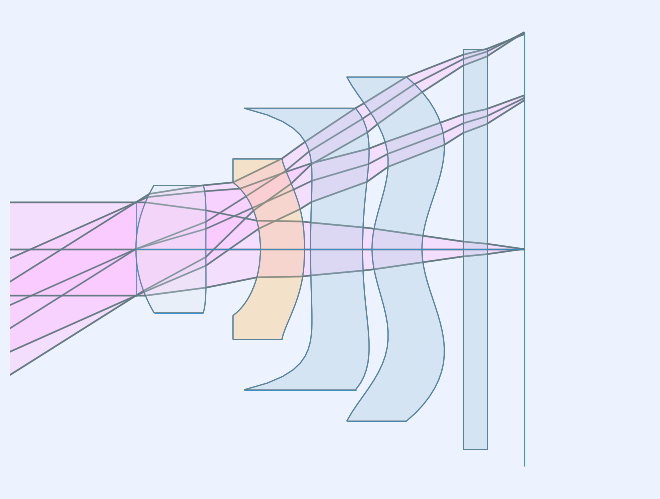
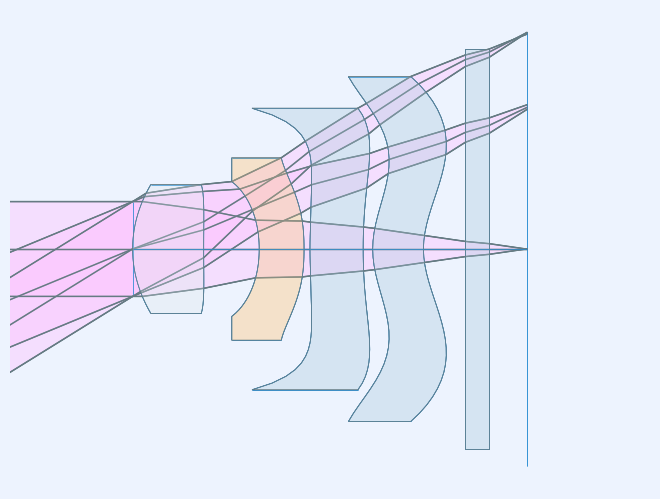
Update triplet and cell phone examples to latest version and practices.

diff --git a/docs/source/examples/Cell_Phone_lens/Cell_Phone_lens.rst b/docs/source/examples/Cell_Phone_lens/Cell_Phone_lens.rst
@@ -128,19 +128,19 @@ List the sequential model and the first order properties
 .. parsed-literal::
 
                   r            t        medium     mode   zdr      sd
-      Obj:     0.000000  1.00000e+10       air             1  6.3006e+09
+      Obj:     0.000000  1.00000e+10       air             1  6.1915e+09
      Stop:     0.000000      0.00000       air             1     0.79358
-        2:     1.962000      1.19000   471.766             1     0.93800
-        3:    33.398000     0.930000       air             1      1.0837
-        4:    -2.182000     0.750000   603.275             1      1.1338
-        5:    -6.367000     0.100000       air             1      1.5390
-        6:     5.694000     0.890000   510.562             1      1.8254
-        7:     9.192000     0.160000       air             1      2.3978
-        8:     1.674000     0.850000   510.562             1      2.4820
-        9:     1.509000     0.700000       air             1      2.9297
-       10:     0.000000     0.400000   516.641             1      3.3067
-       11:     0.000000     0.640000       air             1      3.4058
-      Img:     0.000000      0.00000                       1      3.6910
+        2:     1.962000      1.19000   471.766             1     0.93439
+        3:    33.398000     0.930000       air             1      1.0782
+        4:    -2.182000     0.750000   603.275             1      1.1289
+        5:    -6.367000     0.100000       air             1      1.5270
+        6:     5.694000     0.890000   510.562             1      1.8048
+        7:     9.192000     0.160000       air             1      2.3576
+        8:     1.674000     0.850000   510.562             1      2.4382
+        9:     1.509000     0.700000       air             1      2.8879
+       10:     0.000000     0.400000   516.641             1      3.2480
+       11:     0.000000     0.640000       air             1      3.3477
+      Img:     0.000000      0.00000                       1      3.6298
 
 
 .. code:: ipython3
@@ -162,18 +162,18 @@ List the sequential model and the first order properties
     m            -5.555e-10
     red            -1.8e+09
     obj_dist          1e+10
-    obj_ang           32.21
+    obj_ang           31.76
     enp_dist             -0
     enp_radius       0.7936
     na obj        7.936e-11
     n obj                 1
     img_dist         0.5678
-    img_ht              3.5
+    img_ht            3.439
     exp_dist         -3.602
     exp_radius       0.5854
-    na img          -0.1414
+    na img          -0.1429
     n img                 1
-    optical invariant          0.5
+    optical invariant       0.4913
 
 
 .. code:: ipython3
@@ -391,77 +391,77 @@ Set up the ray trace for the second field point
 Trace central, upper and lower rays
 -----------------------------------
 
-Use the :func:`~.raytr.trace.trace_base` function to trace a ray in terms of pupil position, field point and wavelength.
+Use the :func:`~.raytr.trace.trace_ray` function to trace a ray in terms of pupil position, field point and wavelength.
 
 .. code:: ipython3
 
-    ray_f1_r0 = trace_base(opm, [0., 0.], fld, wvl)
-    list_ray(ray_f1_r0[0])
+    ray_f1_r0 = trace_ray(opm, [0., 0.], fld, wvl)
+    list_ray(ray_f1_r0)
 
 
 .. parsed-literal::
 
                 X            Y            Z           L            M            N               Len
-      0:      0.00000 -4455119074.82455            0     0.000000     0.406953     0.913449   1.0948e+10
-      1:      0.00000      0.00000            0     0.000000     0.406953     0.913449   3.0134e-15
-      2:      0.00000      0.00000   2.6771e-15     0.000000     0.276650     0.960971       1.2397
-      3:      0.00000      0.34297     0.001336     0.000000     0.409866     0.912146      0.86869
-      4:      0.00000      0.69902     -0.13629     0.000000     0.407402     0.913249      0.76898
-      5:      0.00000      1.01230     -0.18402     0.000000     0.432712     0.901532      0.34554
-      6:      0.00000      1.16182     0.027492     0.000000     0.283196     0.959062       1.0047
-      7:      0.00000      1.44636      0.10111     0.000000     0.468716     0.883349      0.36927
-      8:      0.00000      1.61944       0.2673     0.000000     0.352162     0.935939       1.0087
-      9:      0.00000      1.97467       0.3614     0.000000     0.436135     0.899881      0.37628
-     10:      0.00000      2.13878            0     0.000000     0.287688     0.957724      0.41766
-     11:      0.00000      2.25894            0     0.000000     0.436135     0.899881      0.71121
-     12:      0.00000      2.56912            0     0.000000     0.436135     0.899881            0
+      0:      0.00000 -4133992479.29825            0     0.000000     0.382041     0.924145   1.0821e+10
+      1:      0.00000     -0.00000            0     0.000000     0.382041     0.924145   2.6785e-14
+      2:      0.00000     -0.00000   2.4226e-14     0.000000     0.259715     0.965685       1.2335
+      3:      0.00000      0.32037    0.0012037     0.000000     0.384968     0.922930      0.87739
+      4:      0.00000      0.65813     -0.11903     0.000000     0.381160     0.924509      0.76657
+      5:      0.00000      0.95032     -0.16032     0.000000     0.400332     0.916370      0.31265
+      6:      0.00000      1.07549     0.026181     0.000000     0.257929     0.966164       0.9887
+      7:      0.00000      1.33050     0.091422     0.000000     0.441538     0.897243       0.3836
+      8:      0.00000      1.49987      0.27561     0.000000     0.300087     0.953912       1.0019
+      9:      0.00000      1.80052      0.38131     0.000000     0.428907     0.903348      0.35279
+     10:      0.00000      1.95184            0     0.000000     0.282920     0.959143      0.41704
+     11:      0.00000      2.06983            0     0.000000     0.428907     0.903348      0.70848
+     12:      0.00000      2.37370            0     0.000000     0.428907     0.903348            0
 
 
 .. code:: ipython3
 
-    ray_f1_py = trace_base(opm, [0., 1.], fld, wvl)
-    list_ray(ray_f1_py[0])
+    ray_f1_py = trace_ray(opm, [0., 1.], fld, wvl)
+    list_ray(ray_f1_py)
 
 
 .. parsed-literal::
 
                 X            Y            Z           L            M            N               Len
-      0:      0.00000 -4455119074.82455            0     0.000000     0.406953     0.913449   1.0948e+10
-      1:      0.00000      0.79358            0     0.000000     0.406953     0.913449      0.22235
-      2:      0.00000      0.88407       0.2031     0.000000     0.101114     0.994875      0.97236
-      3:      0.00000      0.98239    -0.019515     0.000000     0.074330     0.997234      0.60425
-      4:      0.00000      1.02730     -0.34694     0.000000     0.342927     0.939362       0.8381
-      5:      0.00000      1.31471     -0.30965     0.000000     0.320198     0.947351      0.45073
-      6:      0.00000      1.45903     0.017345     0.000000     0.246733     0.969084       1.0139
-      7:      0.00000      1.70918      0.10987     0.000000     0.362970     0.931801      0.29718
-      8:      0.00000      1.81705      0.22678     0.000000     0.335417     0.942070      0.99575
-      9:      0.00000      2.15104      0.31485     0.000000     0.340775     0.940145      0.40967
-     10:      0.00000      2.29065            0     0.000000     0.224786     0.974408      0.41051
-     11:      0.00000      2.38292            0     0.000000     0.340775     0.940145      0.68075
-     12:      0.00000      2.61491            0     0.000000     0.340775     0.940145            0
+      0:      0.00000 -4133992479.29825            0     0.000000     0.382041     0.924145   1.0821e+10
+      1:      0.00000      0.79358            0     0.000000     0.382041     0.924145      0.21569
+      2:      0.00000      0.87598      0.19933     0.000000     0.088675     0.996061      0.97797
+      3:      0.00000      0.96270    -0.016556     0.000000     0.064387     0.997925        0.623
+      4:      0.00000      1.00282     -0.32485     0.000000     0.322392     0.946606      0.82812
+      5:      0.00000      1.26980     -0.29095     0.000000     0.281957     0.959427      0.43129
+      6:      0.00000      1.39140     0.022842     0.000000     0.208223     0.978081      0.99819
+      7:      0.00000      1.59925      0.10915     0.000000     0.329759     0.944065      0.32274
+      8:      0.00000      1.70567      0.25384     0.000000     0.283035     0.959110      0.99581
+      9:      0.00000      1.98752      0.35893     0.000000     0.328025     0.944669      0.36105
+     10:      0.00000      2.10595            0     0.000000     0.216375     0.976310      0.40971
+     11:      0.00000      2.19460            0     0.000000     0.328025     0.944669      0.67749
+     12:      0.00000      2.41684            0     0.000000     0.328025     0.944669            0
 
 
 .. code:: ipython3
 
-    ray_f1_my = trace_base(opm, [0., -1.], fld, wvl)
-    list_ray(ray_f1_my[0])
+    ray_f1_my = trace_ray(opm, [0., -1.], fld, wvl)
+    list_ray(ray_f1_my)
 
 
 .. parsed-literal::
 
                 X            Y            Z           L            M            N               Len
-      0:      0.00000 -4455119074.82455            0     0.000000     0.406953     0.913449   1.0948e+10
-      1:      0.00000     -0.79358            0     0.000000     0.406953     0.913449      0.15124
-      2:      0.00000     -0.73203      0.13815     0.000000     0.391742     0.920075       1.1443
-      3:      0.00000     -0.28377   0.00098906     0.000000     0.573151     0.819450       1.0975
-      4:      0.00000      0.34526    -0.029681     0.000000     0.428272     0.903650      0.78087
-      5:      0.00000      0.67968    -0.074048     0.000000     0.531021     0.847359      0.22793
-      6:      0.00000      0.80071     0.019088     0.000000     0.341292     0.939957       1.0037
-      7:      0.00000      1.14325     0.072483     0.000000     0.579551     0.814936      0.44361
-      8:      0.00000      1.40035      0.27399     0.000000     0.363252     0.931691       1.0285
-      9:      0.00000      1.77395      0.38224     0.000000     0.534421     0.845218      0.37595
-     10:      0.00000      1.97487   1.1102e-16     0.000000     0.352521     0.935804      0.42744
-     11:      0.00000      2.12555            0     0.000000     0.534421     0.845218       0.7572
-     12:      0.00000      2.53021            0     0.000000     0.534421     0.845218            0
+      0:      0.00000 -4133992479.29825            0     0.000000     0.382041     0.924145   1.0821e+10
+      1:      0.00000     -0.79358            0     0.000000     0.382041     0.924145      0.15109
+      2:      0.00000     -0.73586      0.13963     0.000000     0.375277     0.926913       1.1344
+      3:      0.00000     -0.31014    0.0011435     0.000000     0.548928     0.835870       1.0872
+      4:      0.00000      0.28664    -0.020134     0.000000     0.400058     0.916490      0.78058
+      5:      0.00000      0.59891    -0.054742     0.000000     0.508026     0.861342      0.19864
+      6:      0.00000      0.69983     0.016354     0.000000     0.326388     0.945236       0.9873
+      7:      0.00000      1.02207     0.059586     0.000000     0.555786     0.831326      0.43431
+      8:      0.00000      1.26345      0.26064     0.000000     0.312257     0.949998        1.014
+      9:      0.00000      1.58007       0.3739     0.000000     0.534422     0.845218      0.38582
+     10:      0.00000      1.78626            0     0.000000     0.352521     0.935804      0.42744
+     11:      0.00000      1.93694            0     0.000000     0.534422     0.845218       0.7572
+     12:      0.00000      2.34160            0     0.000000     0.534422     0.845218            0
 
 

diff --git a/docs/source/examples/SasianTriplet/SasianTriplet.rst b/docs/source/examples/SasianTriplet/SasianTriplet.rst
@@ -90,14 +90,14 @@ Define interface and gap data for the sequential model
 
 
 Update the model
-~~~~~~~~~~~~~~~~
+----------------
 
 .. code:: ipython3
 
     opm.update_model()
 
 List the sequential model
-~~~~~~~~~~~~~~~~~~~~~~~~~
+-------------------------
 
 .. code:: ipython3
 
@@ -117,6 +117,66 @@ List the sequential model
       Img:     0.000000      0.00000                       1      18.217
 
 
+List the optical specifications
+-------------------------------
+
+Use the :func:`~.listobj` function to get formatted output of an object's contents.
+
+.. code:: ipython3
+
+    listobj(osp)
+
+
+.. parsed-literal::
+
+    aperture: object epd; value=   12.5000
+    field: object angle; value=   20.0000
+    y =  0.000 ( 0.00) vlx= 0.000 vux= 0.000 vly= 0.000 vuy= 0.000
+    y = 14.140 ( 0.71) vlx= 0.000 vux= 0.000 vly= 0.000 vuy= 0.000
+    y = 20.000 ( 1.00) vlx= 0.000 vux= 0.000 vly= 0.000 vuy= 0.000
+    is_relative=True, is_wide_angle=False
+    central wavelength=  587.5618 nm
+    wavelength (weight) =  486.1327 (0.500),  587.5618 (1.000)*,  656.2725 (0.500)
+    focus shift=0.0
+    
+
+
+List the first order properties
+-------------------------------
+
+.. code:: ipython3
+
+    pm.first_order_data()
+
+
+.. parsed-literal::
+
+    efl                  50
+    f                    50
+    f'                   50
+    ffl               -37.1
+    pp1                12.9
+    bfl               41.24
+    ppk              -8.763
+    pp sep           -2.047
+    f/#                   4
+    m                -5e-09
+    red              -2e+08
+    obj_dist          1e+10
+    obj_ang              20
+    enp_dist          11.68
+    enp_radius         6.25
+    na obj         6.25e-10
+    n obj                 1
+    img_dist          41.24
+    img_ht             18.2
+    exp_dist         -10.01
+    exp_radius        6.406
+    na img           -0.125
+    n img                 1
+    optical invariant        2.275
+
+
 Draw a lens picture
 -------------------
 
@@ -126,7 +186,7 @@ Draw a lens picture
 
 
 
-.. image:: output_21_0.png
+.. image:: output_25_0.png
 
 
 .. code:: ipython3
@@ -171,7 +231,7 @@ Draw a |ybar| diagram
 
 
 
-.. image:: output_25_0.png
+.. image:: output_29_0.png
 
 
 Plot the transverse ray aberrations
@@ -183,7 +243,7 @@ Plot the transverse ray aberrations
 
 
 
-.. image:: output_27_0.png
+.. image:: output_31_0.png
 
 
 Plot the wavefront aberration
@@ -195,43 +255,7 @@ Plot the wavefront aberration
 
 
 
-.. image:: output_29_0.png
-
-
-List the optical specifications
--------------------------------
-
-.. code:: ipython3
-
-    pm.first_order_data()
-
-
-.. parsed-literal::
-
-    efl                  50
-    f                    50
-    f'                   50
-    ffl               -37.1
-    pp1                12.9
-    bfl               41.24
-    ppk              -8.763
-    pp sep           -2.047
-    f/#                   4
-    m                -5e-09
-    red              -2e+08
-    obj_dist          1e+10
-    obj_ang              20
-    enp_dist          11.68
-    enp_radius         6.25
-    na obj         6.25e-10
-    n obj                 1
-    img_dist          41.24
-    img_ht             18.2
-    exp_dist         -10.01
-    exp_radius        6.406
-    na img           -0.124
-    n img                 1
-    optical invariant        2.275
+.. image:: output_33_0.png
 
 
 List the paraxial model
@@ -412,7 +436,7 @@ Bar chart for surface by surface third order aberrations
 
 
 
-.. image:: output_38_0.png
+.. image:: output_40_0.png
 
 
 convert aberration sums to transverse measure
